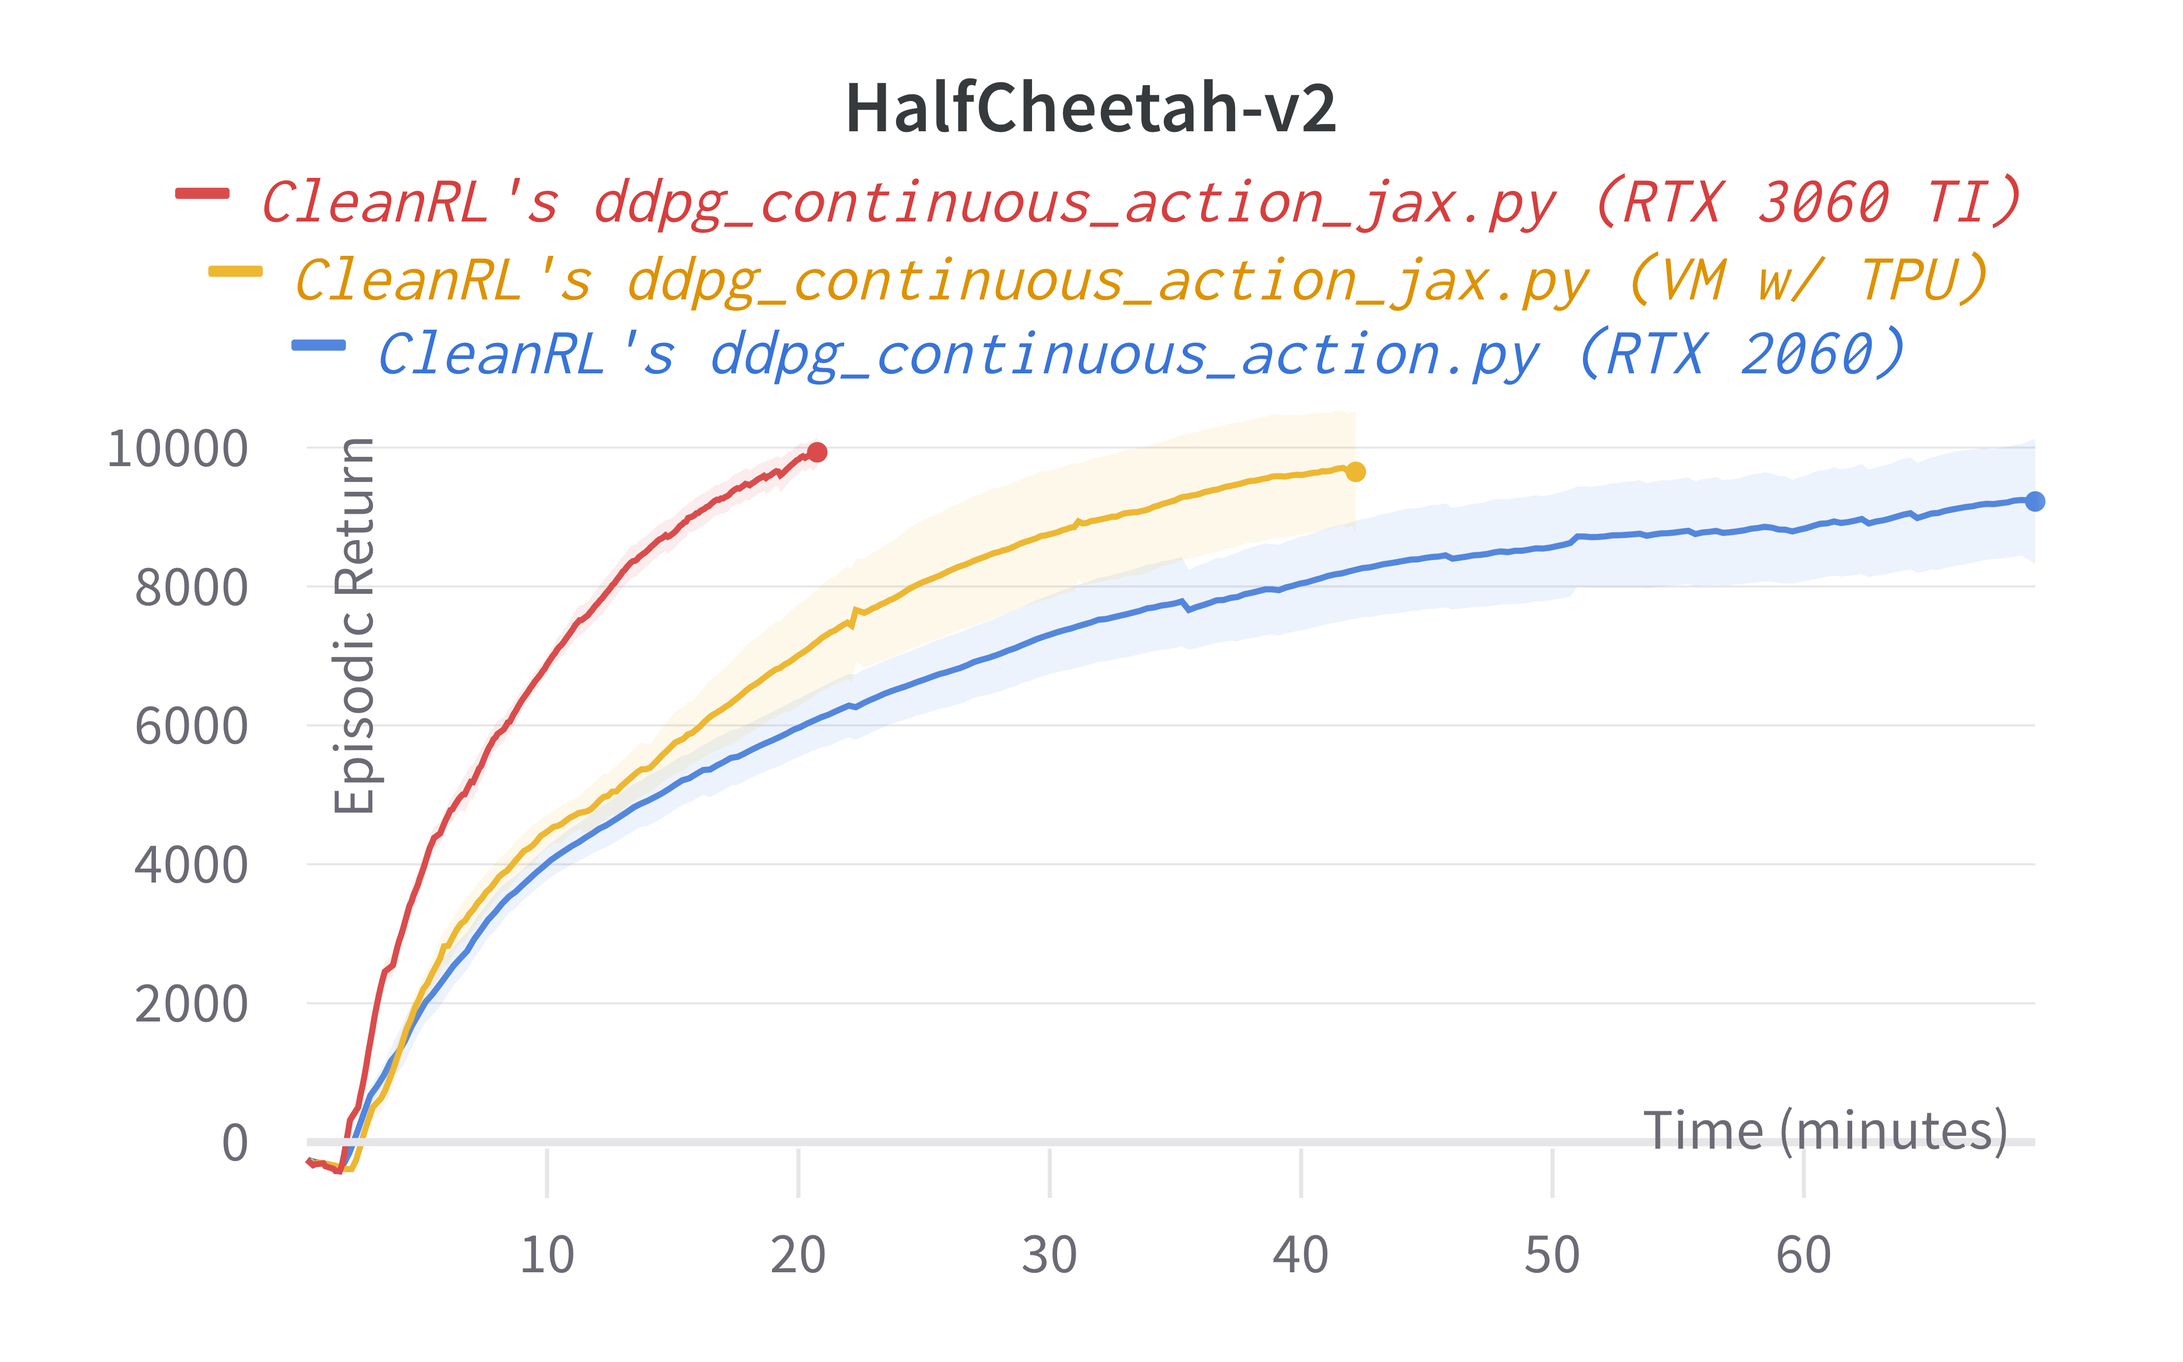
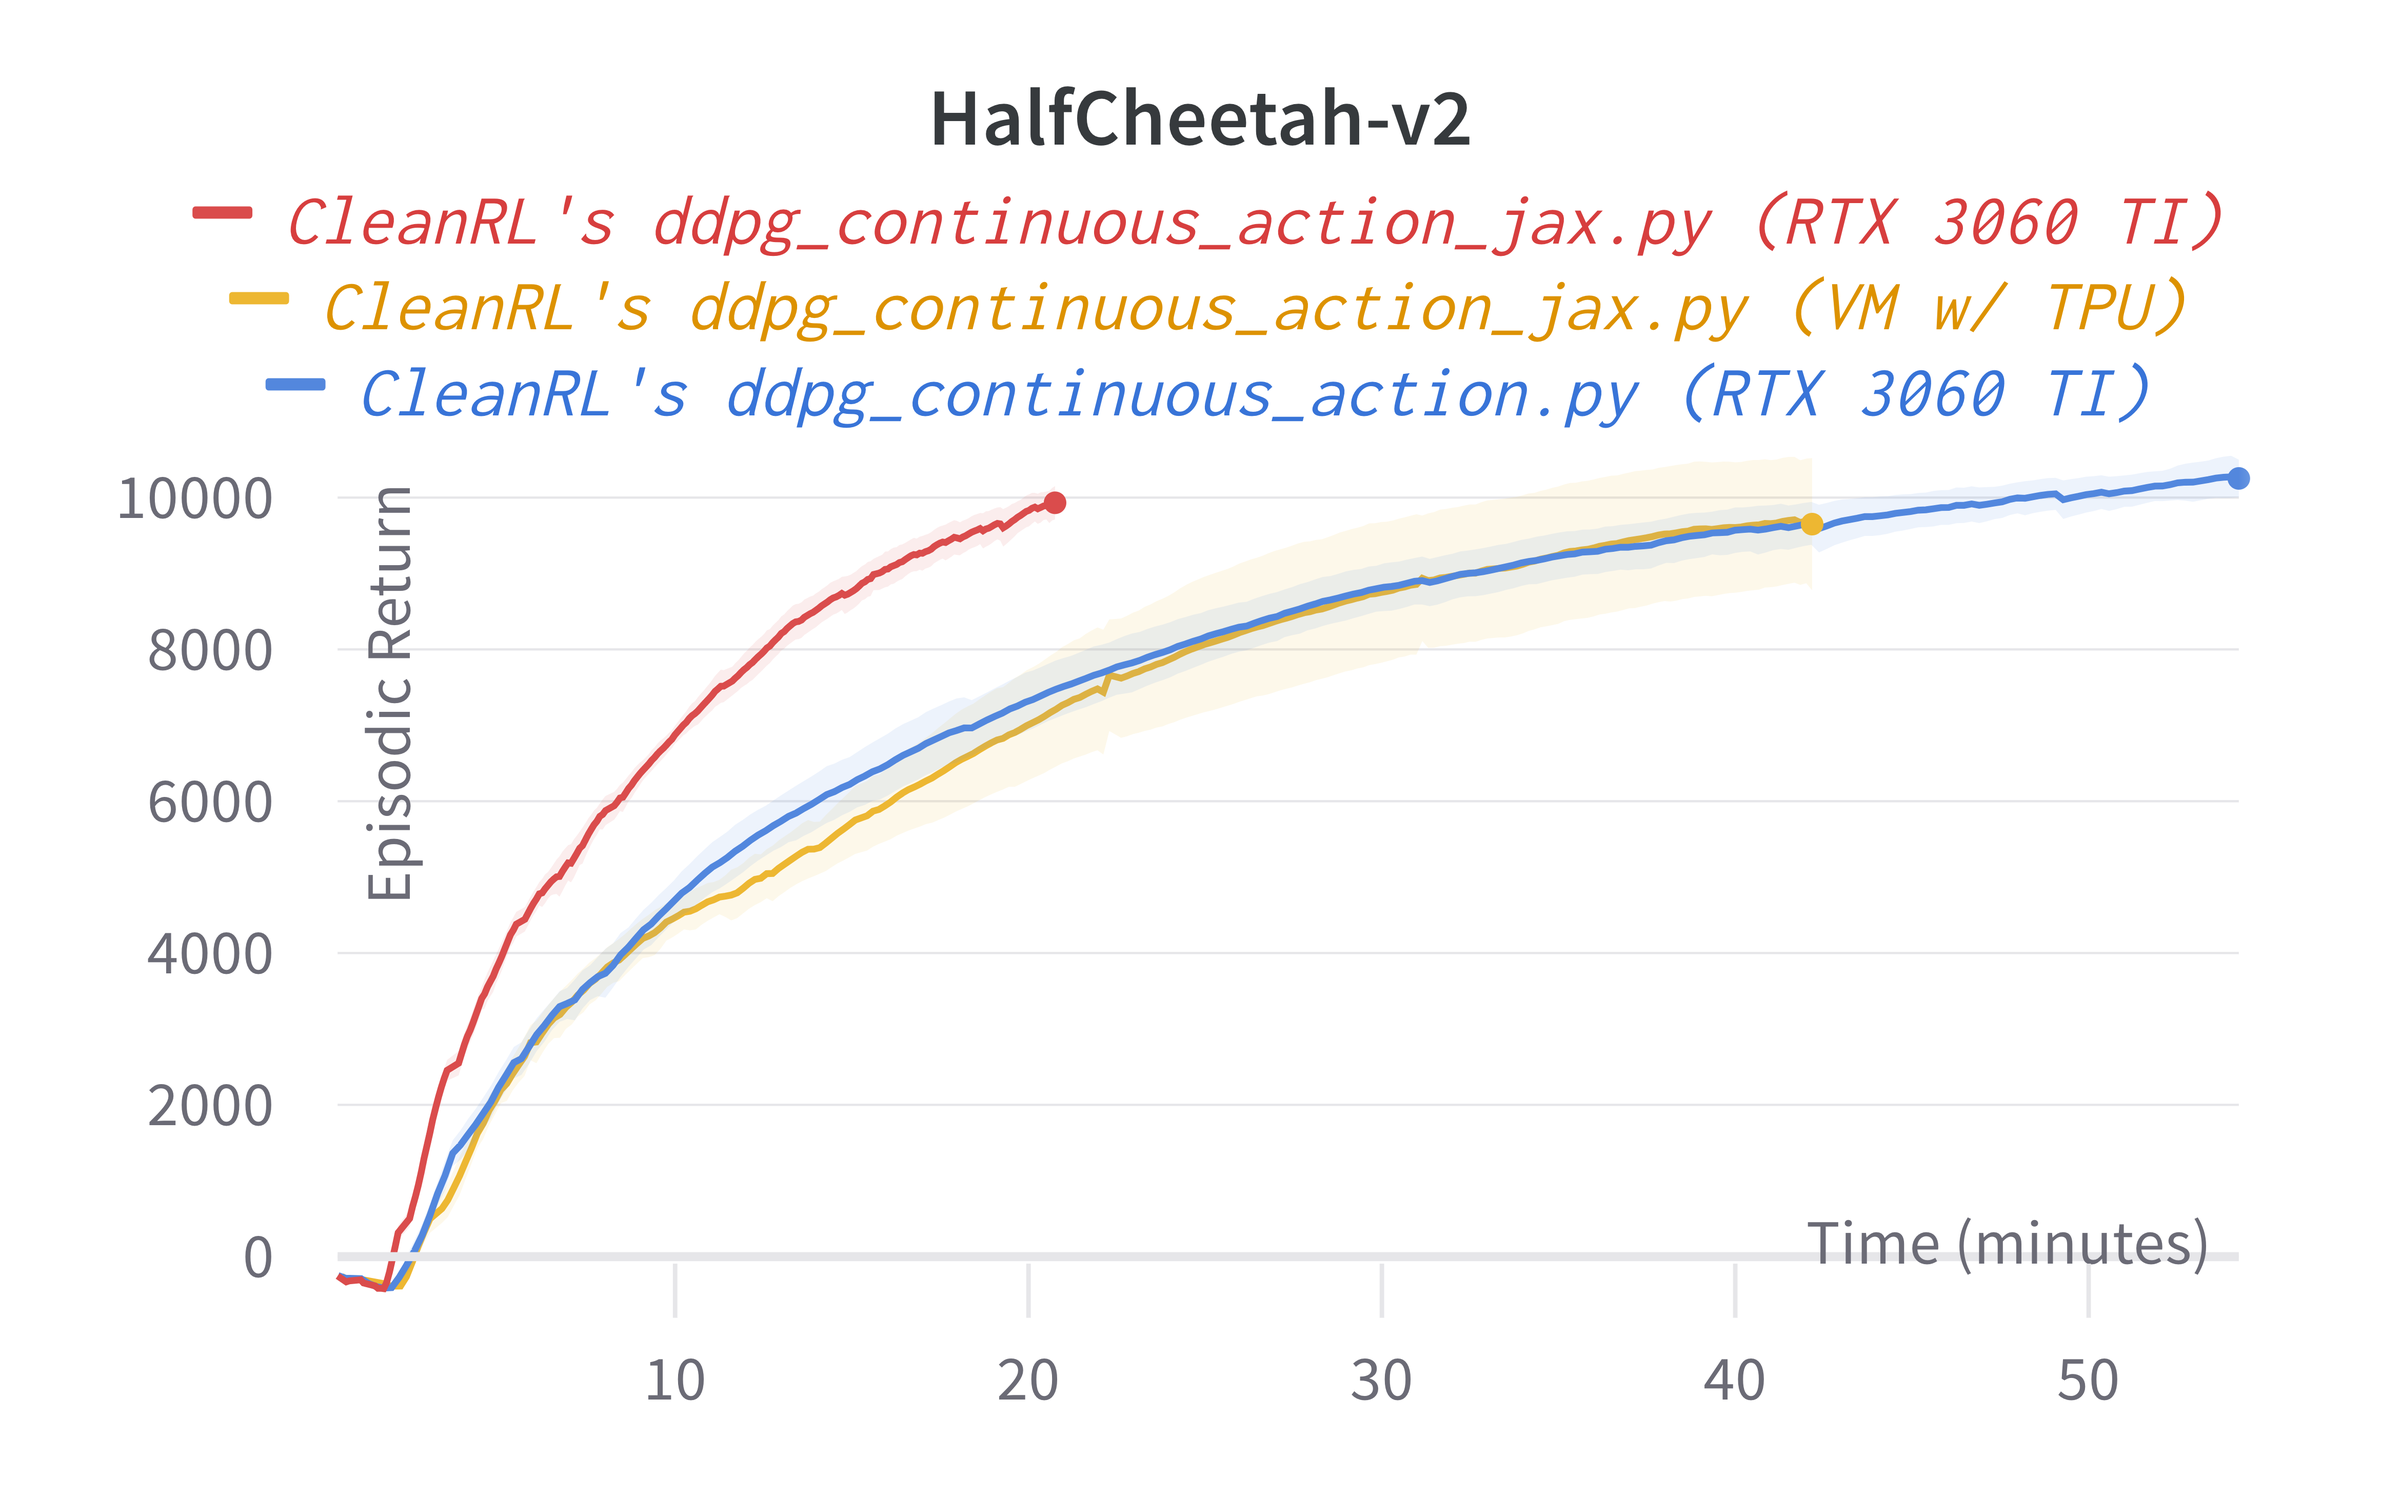
update docs

diff --git a/docs/rl-algorithms/ddpg.md b/docs/rl-algorithms/ddpg.md
@@ -292,12 +292,11 @@ To run benchmark experiments, see :material-github: [benchmark/ddpg.sh](https://
 
 Below are the average episodic returns for [`ddpg_continuous_action_jax.py`](https://github.com/vwxyzjn/cleanrl/blob/master/cleanrl/ddpg_continuous_action_jax.py) (3 random seeds). To ensure the quality of the implementation, we compared the results against (Fujimoto et al., 2018)[^2].
 
-| Environment      | [`ddpg_continuous_action_jax.py`](https://github.com/vwxyzjn/cleanrl/blob/master/cleanrl/ddpg_continuous_action_jax.py) (RTX 3060 TI) | [`ddpg_continuous_action_jax.py`](https://github.com/vwxyzjn/cleanrl/blob/master/cleanrl/ddpg_continuous_action_jax.py) (VM w/ TPU) | [`ddpg_continuous_action.py`](https://github.com/vwxyzjn/cleanrl/blob/master/cleanrl/ddpg_continuous_action.py) (RTX 2060) | [`OurDDPG.py`](https://github.com/sfujim/TD3/blob/master/OurDDPG.py) (Fujimoto et al., 2018, Table 1)[^2]    |
+| Environment      | [`ddpg_continuous_action_jax.py`](https://github.com/vwxyzjn/cleanrl/blob/master/cleanrl/ddpg_continuous_action_jax.py) (RTX 3060 TI) | [`ddpg_continuous_action_jax.py`](https://github.com/vwxyzjn/cleanrl/blob/master/cleanrl/ddpg_continuous_action_jax.py) (VM w/ TPU) | [`ddpg_continuous_action.py`](https://github.com/vwxyzjn/cleanrl/blob/master/cleanrl/ddpg_continuous_action.py) (RTX 3060 TI) | [`OurDDPG.py`](https://github.com/sfujim/TD3/blob/master/OurDDPG.py) (Fujimoto et al., 2018, Table 1)[^2]    |
 | ----------- | ----------- | ----------- | ----------- | ----------- |
-| HalfCheetah |  9910.53 ± 673.49 | 9790.72 ± 1494.85   | 10210.57 ± 196.22      |8577.29  |
-| Walker2d |  1397.60 ± 677.12  | 1314.83 ± 689.71 | 1661.14 ± 250.01     |  3098.11 | 
-| Hopper |  1603.5 ± 727.281  | 1602.20 ± 696.11 | 1007.44 ± 148.29         |  1860.02 | 
-
+| HalfCheetah |  9592.25 ± 135.10 | 9125.06 ± 1477.58  | 10210.57 ± 196.22      |8577.29  |
+| Walker2d |  1083.15 ± 567.65  | 1303.82 ± 448.41 | 1661.14 ± 250.01     |  3098.11 | 
+| Hopper |  1275.28 ± 209.60  | 1145.05 ± 41.95 | 1007.44 ± 148.29         |  1860.02 |     
 
 ???+ info
 
